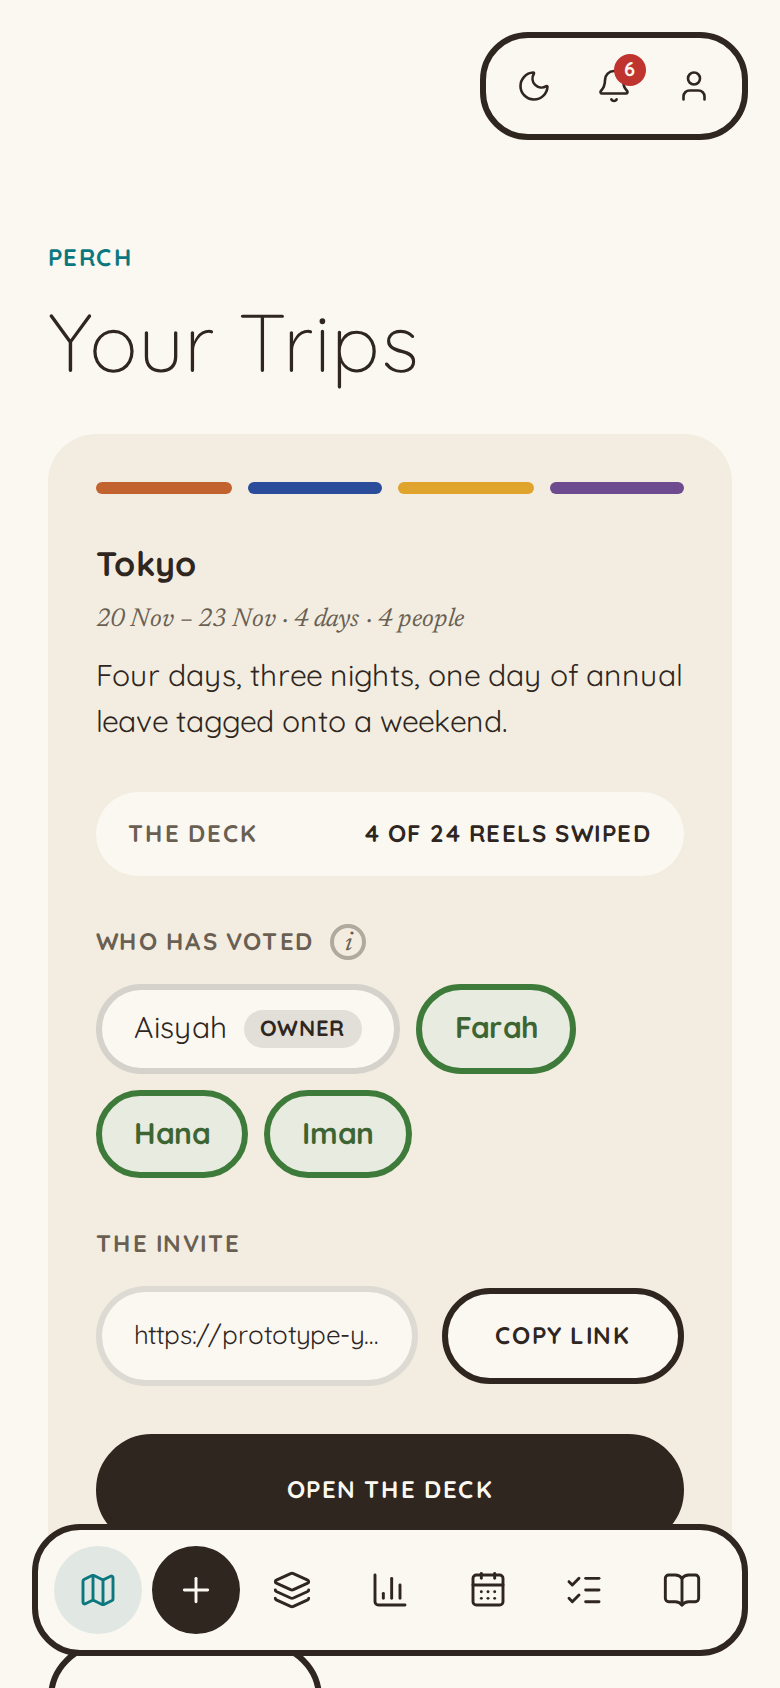
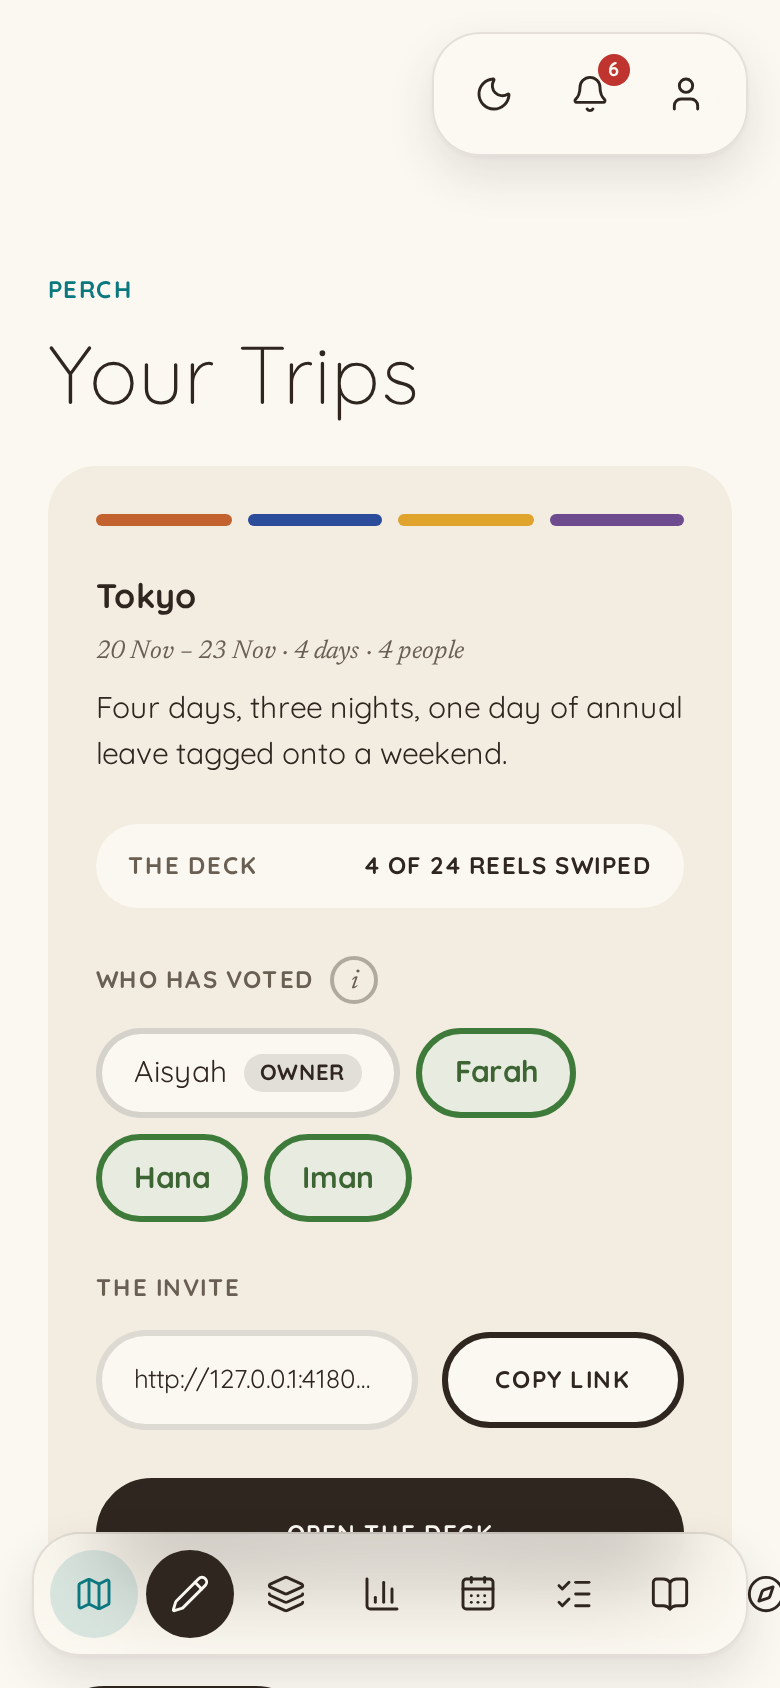
docs(readme): re-shoot the nine screens against v2-0.3.0 and correct their captions
Every screen re-captured from the tagged build, the Handbook added as a ninth,
and each caption checked against the picture it sits beside rather than against
what the surface used to do. The Desk now shows a real overrun with its reason
on the card, the Book shows a spread, and the Deck shows a reel rather than the
identity gate the invite link opens on.

Claude-Session: https://claude.ai/code/session_019S6Y95PNAaCb8qqqS5mkf5

diff --git a/docs/README.md b/docs/README.md
@@ -68,16 +68,17 @@ each day and colours it by how well the route holds, and the finished trip print
 makes in swipes survives intact to a printed keepsake, and the only hands it passes through are the organiser's,
 dragging. One chain, and the feature list below is that chain in order.
 
-| Feature          | What It Does                                                                                                                                      |
-| ---------------- | ------------------------------------------------------------------------------------------------------------------------------------------------- |
-| **Onboarding**   | Free text first, chips as shortcuts under it, and a drawn month tapped twice for the dates                                                        |
-| **The Deck**     | The invite link. Each place is a reel; friends swipe yes or no with no account and no install                                                     |
-| **The Tally**    | A percentage per place. The owner's swipe weighs 1.5; unanimous places go gold, places nobody wanted are greyed                                   |
-| **The Desk**     | Four days, three to six slots each. She drags what won into slots, pins what must not move, and Optimize Plan orders every day around it          |
-| **Feasibility**  | Each day is green, gold or red with a stated reason: it holds, it holds but the order is slow, or a stop is outside hours                         |
-| **The Perch**    | Remove a card and the drawer offers the next-ranked voted-in place for that slot, so the trip cannot empty                                        |
-| **Before We Go** | A checklist derived from the trip itself, and all of it ticked is what unlocks the print                                                          |
-| **The Book**     | The shared link and the keepsake. One plate per day leading with its stops as pictures, the day's drawn route and a transit deep link at its foot |
+| Feature          | What It Does                                                                                                                                              |
+| ---------------- | --------------------------------------------------------------------------------------------------------------------------------------------------------- |
+| **Onboarding**   | Free text first, chips as shortcuts under it, and a drawn month tapped twice for the dates                                                                |
+| **The Deck**     | The invite link. Each place is a reel; friends swipe yes or no with no account and no install                                                             |
+| **The Tally**    | A percentage per place. The owner's swipe weighs 1.5; unanimous places go gold, places nobody wanted are greyed                                           |
+| **The Desk**     | Four days, three to six slots each. She drags what won into slots, pins what must not move, and Optimize Plan orders every day around it                  |
+| **Feasibility**  | Each day is green, gold or red with a stated reason: it holds, it holds but the order is slow, or a stop is outside hours                                 |
+| **The Perch**    | Remove a card and the drawer offers the next-ranked voted-in place for that slot, so the trip cannot empty                                                |
+| **Before We Go** | A checklist derived from the trip itself, and all of it ticked is what unlocks the Book and the Handbook                                                  |
+| **The Book**     | The shared link and the keepsake. A day is a spread: two stops to a page, the poster frames as torn plates, the day's drawn route pinned on the first one |
+| **The Handbook** | The other thing the checklist unlocks. Customs, forecast and a packing list, every line earned by something on the calendar or in the dates               |
 
 **The scheduler is a heuristic and the copy never calls it AI**: cluster by area per day, order by best period and
 opening hours, nearest neighbour within the day. Its colours are the explanation, and every red carries the reason.
@@ -176,26 +177,29 @@ notes in [`DESIGN.md`](DESIGN.md#the-figma-files), which is where the design spe
 judged without visual direction leaking into it, and so a structural problem and a styling problem never get argued
 about at the same time.
 
-### Eight Screens From The Running Build
+### Nine Screens From The Running Build
 
-| Screen                                               | What Happens Here                                                                                                                                                                                                                                                                                                                                                        |
-| ---------------------------------------------------- | ------------------------------------------------------------------------------------------------------------------------------------------------------------------------------------------------------------------------------------------------------------------------------------------------------------------------------------------------------------------------ |
-| ![The landing screen](assets/screens/01-landing.png) | The one screen before you commit to anything. It states the mechanism rather than the benefit, and offers two ways in: start a plan, or open a book someone has already shared with you                                                                                                                                                                                  |
-| ![The dashboard](assets/screens/02-dashboard.png)    | Aisyah sees the trip, who has already swiped, and the link to send the ones who have not. The button reads Open The Deck while she has reels left and See The Tally once she is finished, so the card always names the next thing to do                                                                                                                                  |
-| ![Onboarding](assets/screens/03-onboarding.png)      | She sets the dates by tapping a drawn month twice, then says what she wants out of the trip in her own words before she taps any of the suggestions. Only Tokyo can be picked, and the screen says why instead of letting her find out later                                                                                                                             |
-| ![The Deck](assets/screens/04-deck.png)              | The invite link opens here, on a phone, with no account and no sign-up. She swipes each reel right to keep, left to pass, or up to spend the one Must Go she gets, and the count goes down. Her three friends swiped when she sent the link, so the tally is never waiting on everyone at once                                                                           |
-| ![The Tally](assets/screens/05-tally.png)            | Every place carries a percentage of the group's weighted vote, where the owner's swipe counts one and a half. Places everyone said yes to take the gold mark; places nobody wanted are greyed and drop out of the running order entirely                                                                                                                                 |
-| ![The Desk](assets/screens/06-desk.png)              | She drags a card into a slot and Optimize Plan orders each day around whatever she has fixed. Day 2 has just turned gold: the same three places in a worse order, so it still fits but spends 9 more minutes in transit than the order the scheduler would have chosen. A plus and a minus on each day heading open and close a second stop in a period, up to six a day |
-| ![Before We Go](assets/screens/07-before-we-go.png)  | Six things read off the trip rather than written beside it. The passport date is six months past her last day, the teamLab row names the day that place actually falls on, and the yen figure is the gate total of what is on the calendar. Print The Book stays shut until all six are ticked                                                                           |
-| ![The Book](assets/screens/08-book.png)              | What the group keeps. Each day leads with its stops as pictures, the same poster frames the reels were swiped on, with the dwell, the ringgit and the yen under every entry. The drawing of the day's real route sits at the foot beside the one link that opens it as transit directions in Google Maps                                                                 |
+| Screen                                               | What Happens Here                                                                                                                                                                                                                                                                                                                                                                                                       |
+| ---------------------------------------------------- | ----------------------------------------------------------------------------------------------------------------------------------------------------------------------------------------------------------------------------------------------------------------------------------------------------------------------------------------------------------------------------------------------------------------------- |
+| ![The landing screen](assets/screens/01-landing.png) | The one screen before you commit to anything. It states the mechanism rather than the benefit, and offers two ways in: start a plan, or open a book someone has already shared with you                                                                                                                                                                                                                                 |
+| ![The dashboard](assets/screens/02-dashboard.png)    | Aisyah sees the trip, who has already swiped, and the link to send the ones who have not. The card reads the trip's own state: Open The Deck while she has reels left, See The Tally once she is finished, and Edit Trip whenever the dates or the party need changing                                                                                                                                                  |
+| ![Onboarding](assets/screens/03-onboarding.png)      | She sets the dates by tapping a drawn month twice, then says what she wants out of the trip in her own words before she taps any of the suggestions. Only Tokyo can be picked, and the screen says why instead of letting her find out later                                                                                                                                                                            |
+| ![The Deck](assets/screens/04-deck.png)              | The invite link opens here, on a phone, with no account and no sign-up: everyone picks which of the four they are, then swipes. Right to keep, left to pass, up to spend the one Must Go they get, and the count comes down. Her three friends swiped when she sent the link, so the tally is never waiting on everyone at once                                                                                         |
+| ![The Tally](assets/screens/05-tally.png)            | Every place carries a percentage of the group's weighted vote, where the owner's swipe counts one and a half. Places everyone said yes to take the gold mark; places nobody wanted are greyed and drop out of the running order. While someone is still swiping the page says so, and says why their silence holds a place down rather than leaving it out                                                              |
+| ![The Desk](assets/screens/06-desk.png)              | She drags a card into a slot and Optimize Plan orders every day around whatever she has pinned. Here she has put Day 1 back in her own order and pinned it, so the scheduler kept it and the day now runs 12 hours 32 and ends at 21:32: the chip says Overruns and the line beside it says why, with no tooltip to open. A plus and a minus on each period heading open and close a second stop, up to six stops a day |
+| ![Before We Go](assets/screens/07-before-we-go.png)  | Six things read off the trip rather than written beside it. The passport date is six months past her last day, the teamLab row names the day that place actually falls on, and the yen figure is the gate total of what is on the calendar. Both Print The Book and The Handbook stay shut until all six are ticked                                                                                                     |
+| ![The Book](assets/screens/08-book.png)              | What the group keeps, and a day is a spread. The first stop's picture runs the full width and the drawing of the day's real route is pinned on it; the rest run two to a page beneath, torn-edged, with the dwell, the ringgit and the yen under every entry. The one link that leaves the page opens the day as transit directions in Google Maps                                                                      |
+| ![The Handbook](assets/screens/09-handbook.png)      | The other thing the checklist unlocks. A packing list on the left, and on the right the customs and the forecast that earned it. Nothing here is general travel advice: every line is filtered by a fact the trip established, so a trip with no temple on its calendar never sees temple etiquette, and the three lines this trip earned say what earned them                                                          |
 
-**The flow is Landing, Dashboard, Onboarding, The Deck, The Tally, The Desk, Before We Go, The Book**, and every step is
-a real click in the deployed prototype. Nothing here is a static mock-up of a screen that does not exist.
+**The flow is Landing, Dashboard, Onboarding, The Deck, The Tally, The Desk, Before We Go, and then The Book and The
+Handbook, which the same checklist unlocks together**, and every step is a real click in the deployed prototype. Nothing
+here is a static mock-up of a screen that does not exist.
 
-**The six phone screens are captured at 390 by 844 and the two desktop screens at 1440 by 900, every one rendered at
-double scale so it stays sharp on a high-density display**, which is why their proportions differ. The Desk is the one
-surface built for a wider screen, because four day columns and a sidebar cannot be read at phone width; the story the
-product tells has the group swiping on their phones from a link and the owner shaping the days at a desk.
+**The six phone screens are captured at 390 by 844 and the three desktop screens at 1440 by 900, every one rendered at
+double scale so it stays sharp on a high-density display**, which is why their proportions differ. The Desk, the Book
+and the Handbook are the three built for a wider screen: four day columns and a sidebar cannot be read at phone width,
+and a spread with two pages side by side has nowhere to put the second one. The story the product tells has the group
+swiping on their phones from a link and the owner shaping the days at a desk.
 
 **The Prototype Controls block on The Desk is deliberate and is labelled as not part of the product.** The trip lives in
 one browser with no account behind it, so there is no other way to put the fixture back between runs, and a demo that
